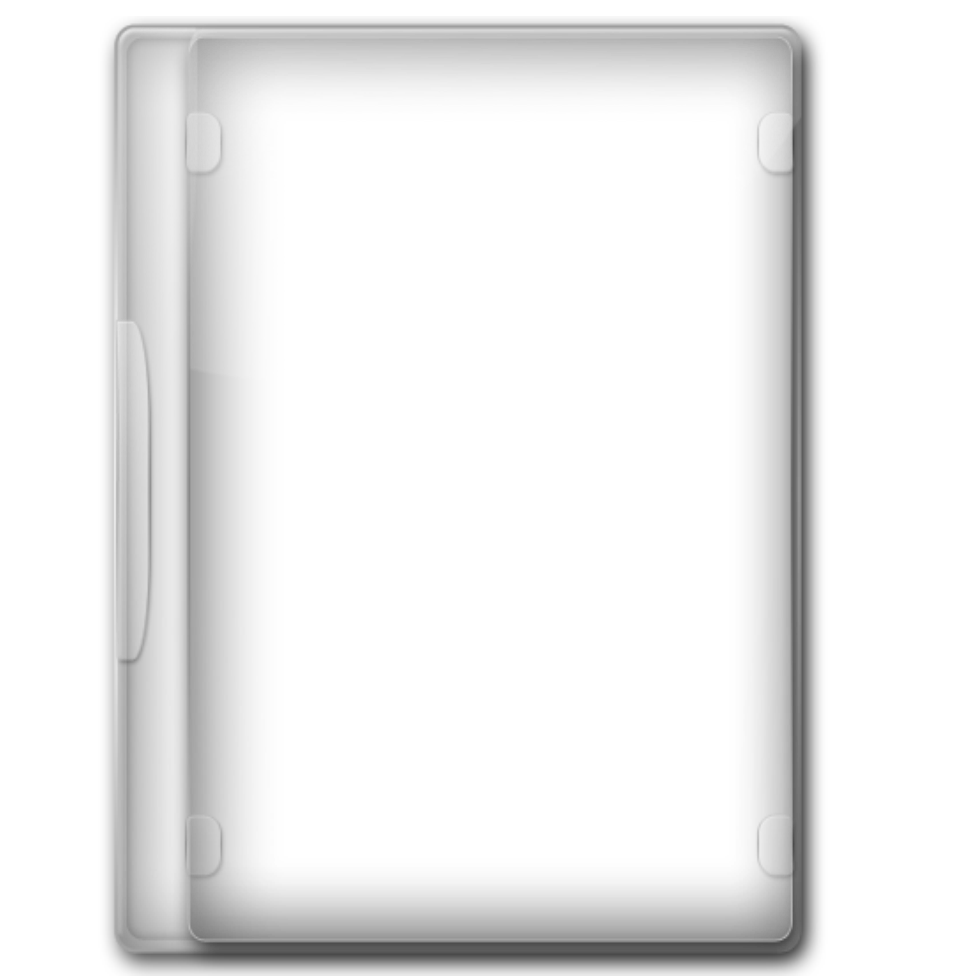
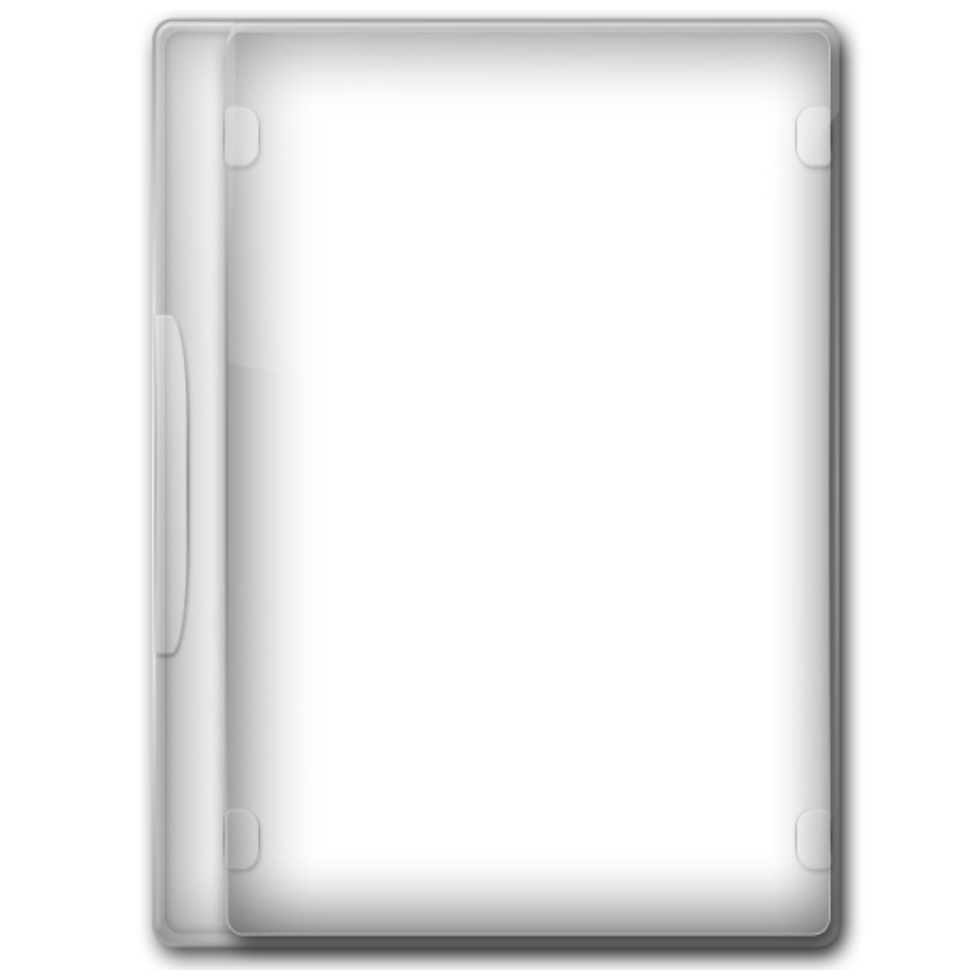
Updates

Changed region(s): [[0.0918, 0.0, 0.8878, 1.0]]

diff --git a/Web-Tools/PS Cover-Creator/PS Cover-Creator.html b/Web-Tools/PS Cover-Creator/PS Cover-Creator.html
@@ -85,9 +85,9 @@ function load_preview() {
 		canvas.height = 980;
 
 		ctx.save();
-		roundedImage(ctx, 190, 40, 600, 900, 20);
+		roundedImage(ctx, 228, 33, 600, 900, 20);
 		ctx.clip();
-		ctx.drawImage(poster, 190, 40, 600, 900);
+		ctx.drawImage(poster, 228, 33, 600, 900);
 		ctx.restore();
     
 		ctx.drawImage(cover, 0, 0,);
@@ -156,9 +156,9 @@ function import_img(file) {
 			canvas.height = 980;
 
 			ctx.save();
-			roundedImage(ctx, 190, 40, 600, 900, 20);
+			roundedImage(ctx, 228, 33, 600, 900, 20);
 			ctx.clip();
-			ctx.drawImage(img, 190, 40, 600, 900);
+			ctx.drawImage(img, 228, 33, 600, 900);
 			ctx.restore();
 			
 			ctx.drawImage(cover, 0, 0);
